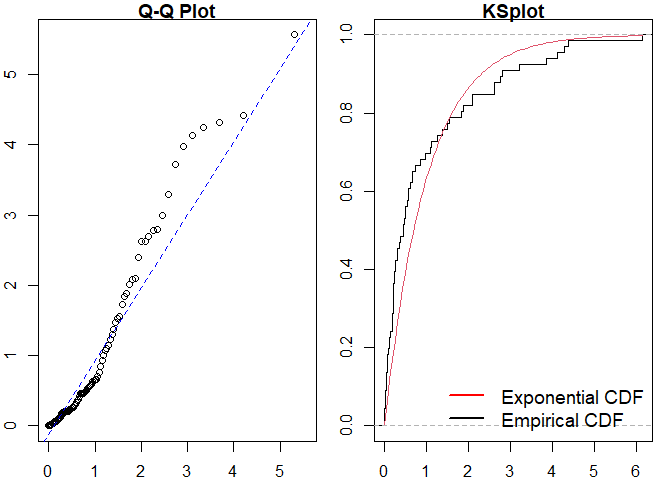
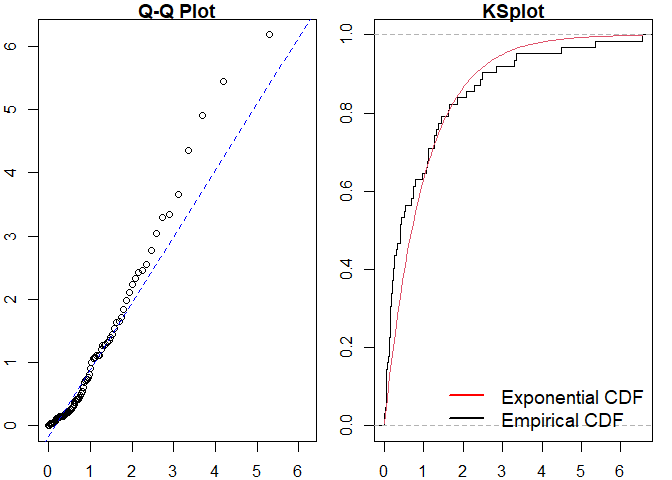
update references, rerun

diff --git a/docs/index.html b/docs/index.html
@@ -17,7 +17,7 @@
     complex temporal point processes. We also include functions to 
     visualise these point processes and collect existing diagnostic
     tools of Brown et al. (2002) &lt;doi:10.1162/08997660252741149&gt; and
-    Wu et al. (2020) &lt;arxiv:2001.09359&gt;,
+    Wu et al. (2021) &lt;doi:10.1002/9781119821588.ch7&gt;,
     which can be used to assess the fit of a chosen point process
     model.">
 <!-- mathjax --><script src="https://cdnjs.cloudflare.com/ajax/libs/mathjax/2.7.5/MathJax.js" integrity="sha256-nvJJv9wWKEm88qvoQl9ekL2J+k/RWIsaSScxxlsrv8k=" crossorigin="anonymous"></script><script src="https://cdnjs.cloudflare.com/ajax/libs/mathjax/2.7.5/config/TeX-AMS-MML_HTMLorMML.js" integrity="sha256-84DKXVJXs0/F8OTMzX4UR909+jtl4G7SPypPavF+GfA=" crossorigin="anonymous"></script><!--[if lt IE 9]>
@@ -90,8 +90,7 @@
   <div class="contents col-md-9">
 
 <div id="ppdiag" class="section level1">
-<div class="page-header"><h1 class="hasAnchor">
-<a href="#ppdiag" class="anchor"></a>ppdiag</h1></div>
+
 <!-- badges: start -->
 
 <p><code>ppdiag</code> is an <code>R</code> package which provides a collection of tools which can be used to assess the fit of temporal point processes to data.</p>
@@ -123,44 +122,68 @@
 <span class="va">hp_obj</span> <span class="op">&lt;-</span> <span class="fu"><a href="reference/pp_hp.html">pp_hp</a></span><span class="op">(</span>lambda0 <span class="op">=</span> <span class="fl">0.2</span>, alpha <span class="op">=</span> <span class="fl">0.35</span>, beta <span class="op">=</span> <span class="fl">0.8</span><span class="op">)</span>
 <span class="va">sim_hp</span> <span class="op">&lt;-</span> <span class="fu"><a href="reference/pp_simulate.html">pp_simulate</a></span><span class="op">(</span><span class="va">hp_obj</span>, end <span class="op">=</span> <span class="fl">200</span><span class="op">)</span>
 <span class="va">sim_hp</span>
-<span class="co">#&gt;  [1]   1.251803   2.585288  15.660522  16.424361  19.852963  20.115283</span>
-<span class="co">#&gt;  [7]  36.749777  36.813473  54.757570  56.583400  59.564868  60.272463</span>
-<span class="co">#&gt; [13]  60.884895  84.771774  88.260163  88.423628  89.601849  90.061292</span>
-<span class="co">#&gt; [19]  90.370334  90.621778  90.694123  92.143117  93.395489  93.687936</span>
-<span class="co">#&gt; [25]  94.588896 113.160732 121.785596 122.646369 122.770419 123.035607</span>
-<span class="co">#&gt; [31] 125.550267 125.561861 130.788192 133.921184 137.518573 139.761132</span>
-<span class="co">#&gt; [37] 145.099685 155.317533 161.611297 176.427144 178.593037 178.923897</span>
-<span class="co">#&gt; [43] 179.170059 184.217712 184.422784 190.509601</span></code></pre></div>
+<span class="co">#&gt;  [1]   5.760803   8.948532   9.985766  11.144890  11.305228  17.509538</span>
+<span class="co">#&gt;  [7]  21.990103  25.754804  25.756725  26.663477  30.420693  34.465694</span>
+<span class="co">#&gt; [13]  36.599366  41.410990  44.438180  44.712109  45.211409  46.512076</span>
+<span class="co">#&gt; [19]  49.511806  51.046608  52.335976  75.660840  76.639780  85.685473</span>
+<span class="co">#&gt; [25]  87.284500  87.448896  87.722795  87.856140  89.034916  89.056869</span>
+<span class="co">#&gt; [31]  89.179466  89.195399  90.775515  90.792069  91.042053  92.293751</span>
+<span class="co">#&gt; [37]  92.355206  96.928276  97.053098  97.880772  98.310011  98.881077</span>
+<span class="co">#&gt; [43]  99.010649  99.213401  99.347277 100.022472 100.679788 100.694527</span>
+<span class="co">#&gt; [49] 101.452972 103.926526 106.653150 113.212708 113.738940 114.338943</span>
+<span class="co">#&gt; [55] 114.745921 115.058328 115.128879 115.896050 116.130131 116.241804</span>
+<span class="co">#&gt; [61] 118.427450 123.380339 123.502200 123.973237 128.881506 129.263522</span>
+<span class="co">#&gt; [67] 143.028509 151.006471 158.349391 162.063008 168.034982 170.657158</span>
+<span class="co">#&gt; [73] 171.781831 175.347477 175.762528 176.398255 176.780393 182.373018</span>
+<span class="co">#&gt; [79] 191.028275 191.257033 192.095983 196.416187 197.413321</span></code></pre></div>
 <p>We can readily evaluate the fit of a homogeneous Poisson process to this data.</p>
 <div class="sourceCode" id="cb4"><pre class="downlit sourceCode r">
 <code class="sourceCode R"><span class="va">est_hpp</span> <span class="op">&lt;-</span> <span class="fu"><a href="reference/fithpp.html">fithpp</a></span><span class="op">(</span><span class="va">sim_hp</span><span class="op">)</span>
 <span class="va">est_hpp</span>
-<span class="co">#&gt; Homogeneous Poisson Process </span>
-<span class="co">#&gt; lambda  </span>
-<span class="co">#&gt; events 1.251803 2.585288 15.66052 16.42436 19.85296 20.11528 36.74978 36.81347 54.75757 56.5834 59.56487 60.27246 60.8849 84.77177 88.26016 88.42363 89.60185 90.06129 90.37033 90.62178 90.69412 92.14312 93.39549 93.68794 94.5889 113.1607 121.7856 122.6464 122.7704 123.0356 125.5503 125.5619 130.7882 133.9212 137.5186 139.7611 145.0997 155.3175 161.6113 176.4271 178.593 178.9239 179.1701 184.2177 184.4228 190.5096</span>
+<span class="co">#&gt; $lambda</span>
+<span class="co">#&gt; [1] 0.4204377</span>
+<span class="co">#&gt; </span>
+<span class="co">#&gt; $events</span>
+<span class="co">#&gt;  [1]   5.760803   8.948532   9.985766  11.144890  11.305228  17.509538</span>
+<span class="co">#&gt;  [7]  21.990103  25.754804  25.756725  26.663477  30.420693  34.465694</span>
+<span class="co">#&gt; [13]  36.599366  41.410990  44.438180  44.712109  45.211409  46.512076</span>
+<span class="co">#&gt; [19]  49.511806  51.046608  52.335976  75.660840  76.639780  85.685473</span>
+<span class="co">#&gt; [25]  87.284500  87.448896  87.722795  87.856140  89.034916  89.056869</span>
+<span class="co">#&gt; [31]  89.179466  89.195399  90.775515  90.792069  91.042053  92.293751</span>
+<span class="co">#&gt; [37]  92.355206  96.928276  97.053098  97.880772  98.310011  98.881077</span>
+<span class="co">#&gt; [43]  99.010649  99.213401  99.347277 100.022472 100.679788 100.694527</span>
+<span class="co">#&gt; [49] 101.452972 103.926526 106.653150 113.212708 113.738940 114.338943</span>
+<span class="co">#&gt; [55] 114.745921 115.058328 115.128879 115.896050 116.130131 116.241804</span>
+<span class="co">#&gt; [61] 118.427450 123.380339 123.502200 123.973237 128.881506 129.263522</span>
+<span class="co">#&gt; [67] 143.028509 151.006471 158.349391 162.063008 168.034982 170.657158</span>
+<span class="co">#&gt; [73] 171.781831 175.347477 175.762528 176.398255 176.780393 182.373018</span>
+<span class="co">#&gt; [79] 191.028275 191.257033 192.095983 196.416187 197.413321</span>
+<span class="co">#&gt; </span>
+<span class="co">#&gt; attr(,"class")</span>
+<span class="co">#&gt; [1] "hpp"</span>
 
 <span class="fu"><a href="reference/pp_diag.html">pp_diag</a></span><span class="op">(</span><span class="va">est_hpp</span>, events <span class="op">=</span> <span class="va">sim_hp</span><span class="op">)</span></code></pre></div>
 <p><img src="reference/figures/README-fit_hpp-1.png" width="75%"></p>
 <div class="sourceCode" id="cb5"><pre class="sourceCode R"><code class="sourceCode r"><span id="cb5-1"><a href="#cb5-1" aria-hidden="true" tabindex="-1"></a><span class="co">#&gt; </span></span>
 <span id="cb5-2"><a href="#cb5-2" aria-hidden="true" tabindex="-1"></a><span class="co">#&gt; Raw residual: 0</span></span>
-<span id="cb5-3"><a href="#cb5-3" aria-hidden="true" tabindex="-1"></a><span class="co">#&gt; Pearson residual: -1.421085e-14</span></span>
+<span id="cb5-3"><a href="#cb5-3" aria-hidden="true" tabindex="-1"></a><span class="co">#&gt; Pearson residual: -2.842171e-14</span></span>
 <span id="cb5-4"><a href="#cb5-4" aria-hidden="true" tabindex="-1"></a><span class="co">#&gt; </span></span>
 <span id="cb5-5"><a href="#cb5-5" aria-hidden="true" tabindex="-1"></a><span class="co">#&gt;  One-sample Kolmogorov-Smirnov test</span></span>
 <span id="cb5-6"><a href="#cb5-6" aria-hidden="true" tabindex="-1"></a><span class="co">#&gt; </span></span>
 <span id="cb5-7"><a href="#cb5-7" aria-hidden="true" tabindex="-1"></a><span class="co">#&gt; data:  r</span></span>
-<span id="cb5-8"><a href="#cb5-8" aria-hidden="true" tabindex="-1"></a><span class="co">#&gt; D = 0.22652, p-value = 0.01481</span></span>
+<span id="cb5-8"><a href="#cb5-8" aria-hidden="true" tabindex="-1"></a><span class="co">#&gt; D = 0.18659, p-value = 0.00529</span></span>
 <span id="cb5-9"><a href="#cb5-9" aria-hidden="true" tabindex="-1"></a><span class="co">#&gt; alternative hypothesis: two-sided</span></span></code></pre></div>
 <div class="sourceCode" id="cb6"><pre class="downlit sourceCode r">
 <code class="sourceCode R"><span class="va">hp_est</span> <span class="op">&lt;-</span> <span class="fu"><a href="reference/fithp.html">fithp</a></span><span class="op">(</span>events <span class="op">=</span> <span class="va">sim_hp</span><span class="op">)</span>
 <span class="fu"><a href="reference/pp_diag.html">pp_diag</a></span><span class="op">(</span><span class="va">hp_est</span>, events <span class="op">=</span> <span class="va">sim_hp</span><span class="op">)</span></code></pre></div>
 <p><img src="reference/figures/README-fit_hp-1.png" width="75%"></p>
-<div class="sourceCode" id="cb7"><pre class="sourceCode R"><code class="sourceCode r"><span id="cb7-1"><a href="#cb7-1" aria-hidden="true" tabindex="-1"></a><span class="co">#&gt; Raw residual: -0.00519921</span></span>
-<span id="cb7-2"><a href="#cb7-2" aria-hidden="true" tabindex="-1"></a><span class="co">#&gt; Pearson residual: 0.06798623</span></span>
+<div class="sourceCode" id="cb7"><pre class="sourceCode R"><code class="sourceCode r"><span id="cb7-1"><a href="#cb7-1" aria-hidden="true" tabindex="-1"></a><span class="co">#&gt; Raw residual: -0.005375166</span></span>
+<span id="cb7-2"><a href="#cb7-2" aria-hidden="true" tabindex="-1"></a><span class="co">#&gt; Pearson residual: -0.3651356</span></span>
 <span id="cb7-3"><a href="#cb7-3" aria-hidden="true" tabindex="-1"></a><span class="co">#&gt; </span></span>
 <span id="cb7-4"><a href="#cb7-4" aria-hidden="true" tabindex="-1"></a><span class="co">#&gt;  One-sample Kolmogorov-Smirnov test</span></span>
 <span id="cb7-5"><a href="#cb7-5" aria-hidden="true" tabindex="-1"></a><span class="co">#&gt; </span></span>
 <span id="cb7-6"><a href="#cb7-6" aria-hidden="true" tabindex="-1"></a><span class="co">#&gt; data:  r</span></span>
-<span id="cb7-7"><a href="#cb7-7" aria-hidden="true" tabindex="-1"></a><span class="co">#&gt; D = 0.10346, p-value = 0.67</span></span>
+<span id="cb7-7"><a href="#cb7-7" aria-hidden="true" tabindex="-1"></a><span class="co">#&gt; D = 0.064572, p-value = 0.8571</span></span>
 <span id="cb7-8"><a href="#cb7-8" aria-hidden="true" tabindex="-1"></a><span class="co">#&gt; alternative hypothesis: two-sided</span></span></code></pre></div>
 <div id="markov-modulated-hawkes-process-example" class="section level2">
 <h2 class="hasAnchor">
@@ -176,13 +199,31 @@
           beta <span class="op">=</span> <span class="fl">0.8</span><span class="op">)</span>
 
 <span class="va">mmhp_obj</span>
-<span class="co">#&gt; Markov Modulated Hawkes Process </span>
-<span class="co">#&gt; lambda0  0.2 </span>
-<span class="co">#&gt; lambda1  0.75 </span>
-<span class="co">#&gt; alpha  0.4 </span>
-<span class="co">#&gt; beta  0.8 </span>
-<span class="co">#&gt; Q  -0.2 0.1 0.2 -0.1 </span>
-<span class="co">#&gt; delta 0.3333333 0.6666667</span>
+<span class="co">#&gt; $Q</span>
+<span class="co">#&gt;      [,1] [,2]</span>
+<span class="co">#&gt; [1,] -0.2  0.2</span>
+<span class="co">#&gt; [2,]  0.1 -0.1</span>
+<span class="co">#&gt; </span>
+<span class="co">#&gt; $delta</span>
+<span class="co">#&gt; [1] 0.3333333 0.6666667</span>
+<span class="co">#&gt; </span>
+<span class="co">#&gt; $events</span>
+<span class="co">#&gt; NULL</span>
+<span class="co">#&gt; </span>
+<span class="co">#&gt; $lambda0</span>
+<span class="co">#&gt; [1] 0.2</span>
+<span class="co">#&gt; </span>
+<span class="co">#&gt; $lambda1</span>
+<span class="co">#&gt; [1] 0.75</span>
+<span class="co">#&gt; </span>
+<span class="co">#&gt; $alpha</span>
+<span class="co">#&gt; [1] 0.4</span>
+<span class="co">#&gt; </span>
+<span class="co">#&gt; $beta</span>
+<span class="co">#&gt; [1] 0.8</span>
+<span class="co">#&gt; </span>
+<span class="co">#&gt; attr(,"class")</span>
+<span class="co">#&gt; [1] "mmhp"</span>
 <span class="va">mmhp_events</span> <span class="op">&lt;-</span> <span class="fu"><a href="reference/pp_simulate.html">pp_simulate</a></span><span class="op">(</span><span class="va">mmhp_obj</span>, n <span class="op">=</span> <span class="fl">50</span><span class="op">)</span></code></pre></div>
 <p>We can easily fit a homogeneous Poisson process and visualise the goodness of fit.</p>
 <div class="sourceCode" id="cb9"><pre class="downlit sourceCode r">
@@ -191,37 +232,37 @@
 <p><img src="reference/figures/README-fit_hpp_to_mmhp-1.png" width="75%"></p>
 <div class="sourceCode" id="cb10"><pre class="sourceCode R"><code class="sourceCode r"><span id="cb10-1"><a href="#cb10-1" aria-hidden="true" tabindex="-1"></a><span class="co">#&gt; </span></span>
 <span id="cb10-2"><a href="#cb10-2" aria-hidden="true" tabindex="-1"></a><span class="co">#&gt; Raw residual: -1</span></span>
-<span id="cb10-3"><a href="#cb10-3" aria-hidden="true" tabindex="-1"></a><span class="co">#&gt; Pearson residual: -1.684459</span></span>
+<span id="cb10-3"><a href="#cb10-3" aria-hidden="true" tabindex="-1"></a><span class="co">#&gt; Pearson residual: -0.9740881</span></span>
 <span id="cb10-4"><a href="#cb10-4" aria-hidden="true" tabindex="-1"></a><span class="co">#&gt; </span></span>
 <span id="cb10-5"><a href="#cb10-5" aria-hidden="true" tabindex="-1"></a><span class="co">#&gt;  One-sample Kolmogorov-Smirnov test</span></span>
 <span id="cb10-6"><a href="#cb10-6" aria-hidden="true" tabindex="-1"></a><span class="co">#&gt; </span></span>
 <span id="cb10-7"><a href="#cb10-7" aria-hidden="true" tabindex="-1"></a><span class="co">#&gt; data:  r</span></span>
-<span id="cb10-8"><a href="#cb10-8" aria-hidden="true" tabindex="-1"></a><span class="co">#&gt; D = 0.27786, p-value = 0.0006626</span></span>
+<span id="cb10-8"><a href="#cb10-8" aria-hidden="true" tabindex="-1"></a><span class="co">#&gt; D = 0.21168, p-value = 0.01914</span></span>
 <span id="cb10-9"><a href="#cb10-9" aria-hidden="true" tabindex="-1"></a><span class="co">#&gt; alternative hypothesis: two-sided</span></span></code></pre></div>
 <p>Similarly for a Hawkes process.</p>
 <div class="sourceCode" id="cb11"><pre class="downlit sourceCode r">
 <code class="sourceCode R"><span class="va">est_hp</span> <span class="op">&lt;-</span> <span class="fu"><a href="reference/fithp.html">fithp</a></span><span class="op">(</span>events <span class="op">=</span> <span class="va">mmhp_events</span><span class="op">$</span><span class="va">events</span><span class="op">)</span>
 <span class="fu"><a href="reference/pp_diag.html">pp_diag</a></span><span class="op">(</span><span class="va">est_hp</span>,<span class="va">mmhp_events</span><span class="op">$</span><span class="va">events</span><span class="op">)</span></code></pre></div>
 <p><img src="reference/figures/README-fit_hp_to_mmhp-1.png" width="75%"></p>
-<div class="sourceCode" id="cb12"><pre class="sourceCode R"><code class="sourceCode r"><span id="cb12-1"><a href="#cb12-1" aria-hidden="true" tabindex="-1"></a><span class="co">#&gt; Raw residual: -0.6181052</span></span>
-<span id="cb12-2"><a href="#cb12-2" aria-hidden="true" tabindex="-1"></a><span class="co">#&gt; Pearson residual: -2.221529</span></span>
+<div class="sourceCode" id="cb12"><pre class="sourceCode R"><code class="sourceCode r"><span id="cb12-1"><a href="#cb12-1" aria-hidden="true" tabindex="-1"></a><span class="co">#&gt; Raw residual: -0.3466309</span></span>
+<span id="cb12-2"><a href="#cb12-2" aria-hidden="true" tabindex="-1"></a><span class="co">#&gt; Pearson residual: -0.6079909</span></span>
 <span id="cb12-3"><a href="#cb12-3" aria-hidden="true" tabindex="-1"></a><span class="co">#&gt; </span></span>
 <span id="cb12-4"><a href="#cb12-4" aria-hidden="true" tabindex="-1"></a><span class="co">#&gt;  One-sample Kolmogorov-Smirnov test</span></span>
 <span id="cb12-5"><a href="#cb12-5" aria-hidden="true" tabindex="-1"></a><span class="co">#&gt; </span></span>
 <span id="cb12-6"><a href="#cb12-6" aria-hidden="true" tabindex="-1"></a><span class="co">#&gt; data:  r</span></span>
-<span id="cb12-7"><a href="#cb12-7" aria-hidden="true" tabindex="-1"></a><span class="co">#&gt; D = 0.078371, p-value = 0.8949</span></span>
+<span id="cb12-7"><a href="#cb12-7" aria-hidden="true" tabindex="-1"></a><span class="co">#&gt; D = 0.095638, p-value = 0.7142</span></span>
 <span id="cb12-8"><a href="#cb12-8" aria-hidden="true" tabindex="-1"></a><span class="co">#&gt; alternative hypothesis: two-sided</span></span></code></pre></div>
 <p>We can then compare to the true point process model.</p>
 <div class="sourceCode" id="cb13"><pre class="downlit sourceCode r">
 <code class="sourceCode R"><span class="fu"><a href="reference/pp_diag.html">pp_diag</a></span><span class="op">(</span><span class="va">mmhp_obj</span>, <span class="va">mmhp_events</span><span class="op">$</span><span class="va">events</span><span class="op">)</span></code></pre></div>
 <p><img src="reference/figures/README-fit_mmhp-1.png" width="75%"></p>
-<div class="sourceCode" id="cb14"><pre class="sourceCode R"><code class="sourceCode r"><span id="cb14-1"><a href="#cb14-1" aria-hidden="true" tabindex="-1"></a><span class="co">#&gt; Raw residual: 5.381804</span></span>
-<span id="cb14-2"><a href="#cb14-2" aria-hidden="true" tabindex="-1"></a><span class="co">#&gt; Pearson residual: 2.85359</span></span>
+<div class="sourceCode" id="cb14"><pre class="sourceCode R"><code class="sourceCode r"><span id="cb14-1"><a href="#cb14-1" aria-hidden="true" tabindex="-1"></a><span class="co">#&gt; Raw residual: 8.862914</span></span>
+<span id="cb14-2"><a href="#cb14-2" aria-hidden="true" tabindex="-1"></a><span class="co">#&gt; Pearson residual: 10.62449</span></span>
 <span id="cb14-3"><a href="#cb14-3" aria-hidden="true" tabindex="-1"></a><span class="co">#&gt; </span></span>
 <span id="cb14-4"><a href="#cb14-4" aria-hidden="true" tabindex="-1"></a><span class="co">#&gt;  One-sample Kolmogorov-Smirnov test</span></span>
 <span id="cb14-5"><a href="#cb14-5" aria-hidden="true" tabindex="-1"></a><span class="co">#&gt; </span></span>
 <span id="cb14-6"><a href="#cb14-6" aria-hidden="true" tabindex="-1"></a><span class="co">#&gt; data:  r</span></span>
-<span id="cb14-7"><a href="#cb14-7" aria-hidden="true" tabindex="-1"></a><span class="co">#&gt; D = 0.12924, p-value = 0.344</span></span>
+<span id="cb14-7"><a href="#cb14-7" aria-hidden="true" tabindex="-1"></a><span class="co">#&gt; D = 0.096698, p-value = 0.7017</span></span>
 <span id="cb14-8"><a href="#cb14-8" aria-hidden="true" tabindex="-1"></a><span class="co">#&gt; alternative hypothesis: two-sided</span></span></code></pre></div>
 </div>
 </div>
@@ -234,6 +275,8 @@
 <h1 class="hasAnchor">
 <a href="#references" class="anchor"></a>References</h1>
 <ul>
+<li>Sun et al., (2021). ppdiag: Diagnostic Tools for Temporal Point Processes. Journal of Open Source Software, 6(61), 3133, <a href="https://doi.org/10.21105/joss.03133" class="uri">https://doi.org/10.21105/joss.03133</a>
+</li>
 <li>Wu et al., Diagnostics and Visualization of Point Process Models for Event Times on a Social Network, <a href="https://arxiv.org/abs/2001.09359" class="uri">https://arxiv.org/abs/2001.09359</a>
 </li>
 </ul>
@@ -250,6 +293,8 @@
 <li>Browse source code at <br><a href="https://github.com/OwenWard/ppdiag/">https://github.com/OwenWard/ppdiag/</a>
 </li>
 <li>Report a bug at <br><a href="https://github.com/OwenWard/ppdiag/issues">https://github.com/OwenWard/ppdiag/issues</a>
+</li>
+<li>Read JOSS Article at <br><a href="https://joss.theoj.org/papers/10.21105/joss.03133">https://joss.theoj.org/papers/10.21105/joss.03133</a>
 </li>
 </ul>
 </div>
@@ -286,6 +331,7 @@
 <li><a href="https://CRAN.R-project.org/package=ppdiag"><img src="https://www.r-pkg.org/badges/version/ppdiag" alt="CRAN status"></a></li>
 <li><a href="https://lifecycle.r-lib.org/articles/stages.html"><img src="https://img.shields.io/badge/lifecycle-stable-brightgreen.svg" alt="Lifecycle: stable"></a></li>
 <li><a href="https://codecov.io/gh/OwenWard/ppdiag?branch=main"><img src="https://codecov.io/gh/OwenWard/ppdiag/branch/main/graph/badge.svg" alt="Codecov test coverage"></a></li>
+<li><a href="https://doi.org/10.21105/joss.03133"><img src="https://joss.theoj.org/papers/10.21105/joss.03133/status.svg" alt="DOI"></a></li>
 </ul>
 </div>
 </div>

diff --git a/docs/articles/fitting_markov_modulated.html b/docs/articles/fitting_markov_modulated.html
@@ -79,7 +79,7 @@
 
       
 
-      </header><script src="fitting_markov_modulated_files/header-attrs-2.7/header-attrs.js"></script><div class="row">
+      </header><script src="fitting_markov_modulated_files/header-attrs-2.9/header-attrs.js"></script><div class="row">
   <div class="col-md-9 contents">
     <div class="page-header toc-ignore">
       <h1 data-toc-skip>Fitting Markov Modulated Point Process Models</h1>
@@ -97,7 +97,7 @@
 <code class="sourceCode R"><span class="kw"><a href="https://rdrr.io/r/base/library.html">library</a></span><span class="op">(</span><span class="va"><a href="https://owenward.github.io/ppdiag/">ppdiag</a></span><span class="op">)</span>
 <span class="kw"><a href="https://rdrr.io/r/base/library.html">library</a></span><span class="op">(</span><span class="va"><a href="https://mc-stan.org/rstan">rstan</a></span><span class="op">)</span>
 <span class="kw"><a href="https://rdrr.io/r/base/library.html">library</a></span><span class="op">(</span><span class="va"><a href="https://mc-stan.org/cmdstanr">cmdstanr</a></span><span class="op">)</span>
-<span class="kw"><a href="https://rdrr.io/r/base/library.html">library</a></span><span class="op">(</span><span class="va"><a href="http://tidyverse.tidyverse.org">tidyverse</a></span><span class="op">)</span>
+<span class="kw"><a href="https://rdrr.io/r/base/library.html">library</a></span><span class="op">(</span><span class="va"><a href="https://tidyverse.tidyverse.org">tidyverse</a></span><span class="op">)</span>
 <span class="kw"><a href="https://rdrr.io/r/base/library.html">library</a></span><span class="op">(</span><span class="va"><a href="https://mc-stan.org/bayesplot/">bayesplot</a></span><span class="op">)</span></code></pre></div>
 <p>Functions for fitting standard Hawkes and Poisson point processes to data are included in <code>ppdiag</code>. However, currently, we do not include fitting algorithms for Markov modulated point processes, as these rely on the use of <code>rstan</code> or (more recently), <code>cmdstanr</code> to perform Bayesian inference for the model parameters.</p>
 <p>Here we provide instructions on how to fit these models so that they can easily be used in conjunction with the diagnostic tools of <code>ppdiag</code>.</p>

diff --git a/docs/articles/ppdiag.html b/docs/articles/ppdiag.html
@@ -79,7 +79,7 @@
 
       
 
-      </header><script src="ppdiag_files/header-attrs-2.7/header-attrs.js"></script><div class="row">
+      </header><script src="ppdiag_files/header-attrs-2.9/header-attrs.js"></script><div class="row">
   <div class="col-md-9 contents">
     <div class="page-header toc-ignore">
       <h1 data-toc-skip>

diff --git a/README.md b/README.md
@@ -55,17 +55,17 @@ library(ppdiag)
 hp_obj <- pp_hp(lambda0 = 0.2, alpha = 0.35, beta = 0.8)
 sim_hp <- pp_simulate(hp_obj, end = 200)
 sim_hp
-#>  [1]   2.186230   3.565304   3.902349   3.964491   6.925180   7.550459
-#>  [7]  11.661489  13.546240  14.708947  18.504127  21.884172  28.200651
-#> [13]  32.725824  32.948553  34.321960  34.336526  35.798993  42.058508
-#> [19]  49.942025  54.593947  63.020692  63.910373  64.643690  65.032153
-#> [25]  65.657198  75.292857  76.692171  79.951074  81.007021  88.885178
-#> [31]  90.571610 109.024238 109.833981 111.815871 124.703088 125.471931
-#> [37] 125.570883 127.091988 129.062818 129.689934 130.604303 132.338776
-#> [43] 140.664296 146.341383 151.822010 152.475271 152.680939 153.386389
-#> [49] 153.642172 153.962057 153.982753 154.104694 154.112463 154.172057
-#> [55] 154.723903 157.320462 170.445160 172.078151 172.694431 173.266803
-#> [61] 185.638459 185.807981 185.928880 186.485358 198.104800 198.281929
+#>  [1]   1.275239   4.783765   5.594645   8.598805  12.615358  13.236031
+#>  [7]  16.646178  17.963423  18.111810  22.084071  26.666076  34.308807
+#> [13]  34.356333  34.495016  34.951780  35.092074  36.397702  37.473565
+#> [19]  37.846293  37.999420  54.822306  54.960122  55.721565  56.161485
+#> [25]  56.825700  57.272058  59.441202  67.259184  67.951046  73.067622
+#> [31]  73.376321  73.864017  74.351076  78.675743  84.520527  86.082185
+#> [37]  86.547380  89.036582  99.411569 100.220569 101.941447 104.265342
+#> [43] 106.553315 115.496473 126.077235 126.679327 126.705392 130.829836
+#> [49] 134.226466 135.613464 135.633740 149.809218 156.366308 156.732731
+#> [55] 157.273463 160.788531 161.764239 166.976330 187.590412 187.737997
+#> [61] 187.994724 195.153693
 ```
 
 We can readily evaluate the fit of a homogeneous Poisson process to this
@@ -76,7 +76,7 @@ est_hpp <- fithpp(sim_hp)
 est_hpp
 #> Homogeneous Poisson Process 
 #> lambda  
-#> events 2.18623 3.565304 3.902349 3.964491 6.92518 7.550459 11.66149 13.54624 14.70895 18.50413 21.88417 28.20065 32.72582 32.94855 34.32196 34.33653 35.79899 42.05851 49.94203 54.59395 63.02069 63.91037 64.64369 65.03215 65.6572 75.29286 76.69217 79.95107 81.00702 88.88518 90.57161 109.0242 109.834 111.8159 124.7031 125.4719 125.5709 127.092 129.0628 129.6899 130.6043 132.3388 140.6643 146.3414 151.822 152.4753 152.6809 153.3864 153.6422 153.9621 153.9828 154.1047 154.1125 154.1721 154.7239 157.3205 170.4452 172.0782 172.6944 173.2668 185.6385 185.808 185.9289 186.4854 198.1048 198.2819
+#> events 1.275239 4.783765 5.594645 8.598805 12.61536 13.23603 16.64618 17.96342 18.11181 22.08407 26.66608 34.30881 34.35633 34.49502 34.95178 35.09207 36.3977 37.47357 37.84629 37.99942 54.82231 54.96012 55.72156 56.16149 56.8257 57.27206 59.4412 67.25918 67.95105 73.06762 73.37632 73.86402 74.35108 78.67574 84.52053 86.08219 86.54738 89.03658 99.41157 100.2206 101.9414 104.2653 106.5533 115.4965 126.0772 126.6793 126.7054 130.8298 134.2265 135.6135 135.6337 149.8092 156.3663 156.7327 157.2735 160.7885 161.7642 166.9763 187.5904 187.738 187.9947 195.1537
 
 pp_diag(est_hpp, events = sim_hp)
 ```
@@ -84,13 +84,13 @@ pp_diag(est_hpp, events = sim_hp)
 <img src="man/figures/README-fit_hpp-1.png" width="75%" />
 
     #> 
-    #> Raw residual: 0
-    #> Pearson residual: -1.421085e-14
+    #> Raw residual: -7.105427e-15
+    #> Pearson residual: 1.421085e-14
     #> 
     #>  One-sample Kolmogorov-Smirnov test
     #> 
     #> data:  r
-    #> D = 0.19214, p-value = 0.01312
+    #> D = 0.20838, p-value = 0.007712
     #> alternative hypothesis: two-sided
 
 ``` r
@@ -100,13 +100,13 @@ pp_diag(hp_est, events = sim_hp)
 
 <img src="man/figures/README-fit_hp-1.png" width="75%" />
 
-    #> Raw residual: 0.002371998
-    #> Pearson residual: -0.1398567
+    #> Raw residual: -0.002513104
+    #> Pearson residual: 0.2040545
     #> 
     #>  One-sample Kolmogorov-Smirnov test
     #> 
     #> data:  r
-    #> D = 0.064213, p-value = 0.9321
+    #> D = 0.075428, p-value = 0.846
     #> alternative hypothesis: two-sided
 
 ## Markov Modulated Hawkes Process Example
@@ -147,12 +147,12 @@ pp_diag(est_hpp,mmhp_events$events)
 
     #> 
     #> Raw residual: -1
-    #> Pearson residual: -1.419605
+    #> Pearson residual: -1.270479
     #> 
     #>  One-sample Kolmogorov-Smirnov test
     #> 
     #> data:  r
-    #> D = 0.16743, p-value = 0.1078
+    #> D = 0.30169, p-value = 0.000156
     #> alternative hypothesis: two-sided
 
 Similarly for a Hawkes process.
@@ -164,13 +164,13 @@ pp_diag(est_hp,mmhp_events$events)
 
 <img src="man/figures/README-fit_hp_to_mmhp-1.png" width="75%" />
 
-    #> Raw residual: -0.8106565
-    #> Pearson residual: -1.359046
+    #> Raw residual: -0.3695538
+    #> Pearson residual: -1.850818
     #> 
     #>  One-sample Kolmogorov-Smirnov test
     #> 
     #> data:  r
-    #> D = 0.077559, p-value = 0.9016
+    #> D = 0.081193, p-value = 0.87
     #> alternative hypothesis: two-sided
 
 We can then compare to the true point process model.
@@ -181,13 +181,13 @@ pp_diag(mmhp_obj, mmhp_events$events)
 
 <img src="man/figures/README-fit_mmhp-1.png" width="75%" />
 
-    #> Raw residual: 11.18297
-    #> Pearson residual: 20.98349
+    #> Raw residual: 6.507162
+    #> Pearson residual: 3.326864
     #> 
     #>  One-sample Kolmogorov-Smirnov test
     #> 
     #> data:  r
-    #> D = 0.10866, p-value = 0.5595
+    #> D = 0.1025, p-value = 0.6324
     #> alternative hypothesis: two-sided
 
 # Getting help and contributing
@@ -205,5 +205,8 @@ reach out with any questions.
 -   Sun et al., (2021). ppdiag: Diagnostic Tools for Temporal Point
     Processes. Journal of Open Source Software, 6(61), 3133,
     <https://doi.org/10.21105/joss.03133>
--   Wu et al., Diagnostics and Visualization of Point Process Models for
-    Event Times on a Social Network, <https://arxiv.org/abs/2001.09359>
+-   Wu et al. (2021), Diagnostics and Visualization of Point Process
+    Models for Event Times on a Social Network, In Applied Modeling
+    Techniques and Data Analysis 1 (eds Y. Dimotikalis, A.
+    Karagrigoriou, C. Parpoula and C.H. Skiadas).
+    <https://doi.org/10.1002/9781119821588.ch7>

diff --git a/NEWS.md b/NEWS.md
@@ -1,0 +1,8 @@
+# ppdiag 0.1.1
+
+Some small updates which arose from the JOSS review process which 
+
+- added print methods for point process objects
+- tidy up the returned information for diagnostic functions
+
+Also updated a citation in the description to published version.
